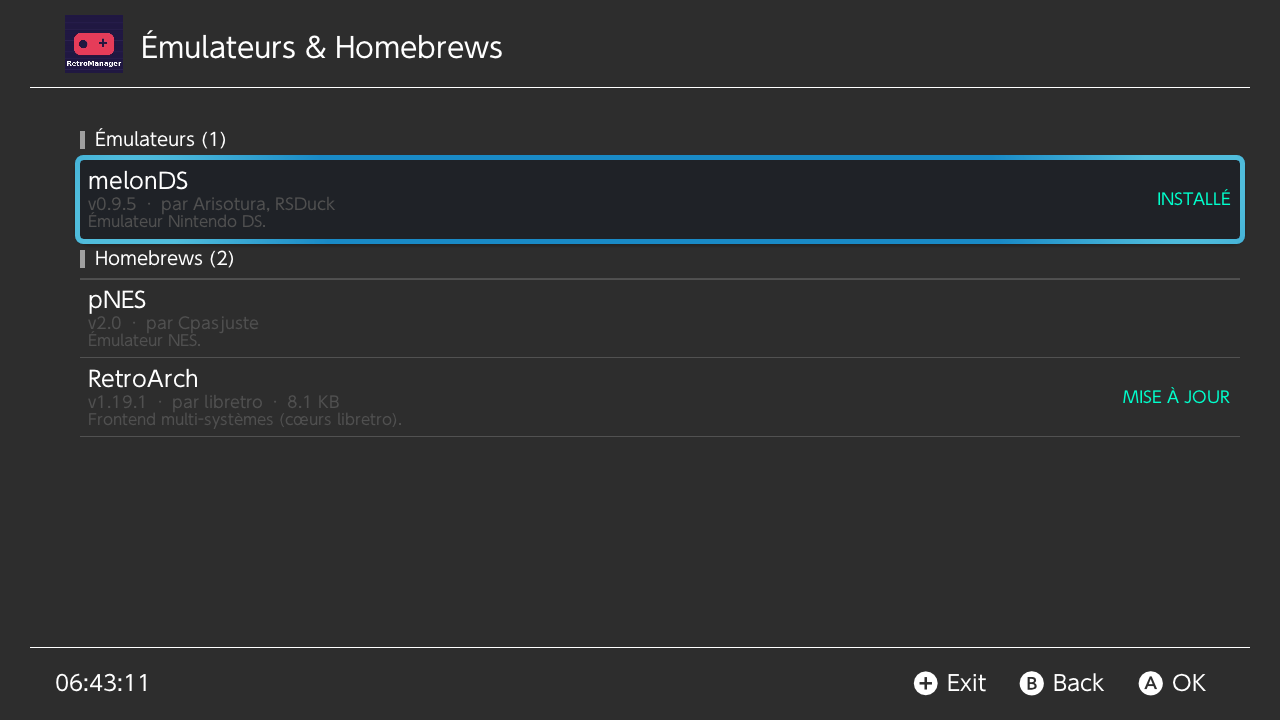
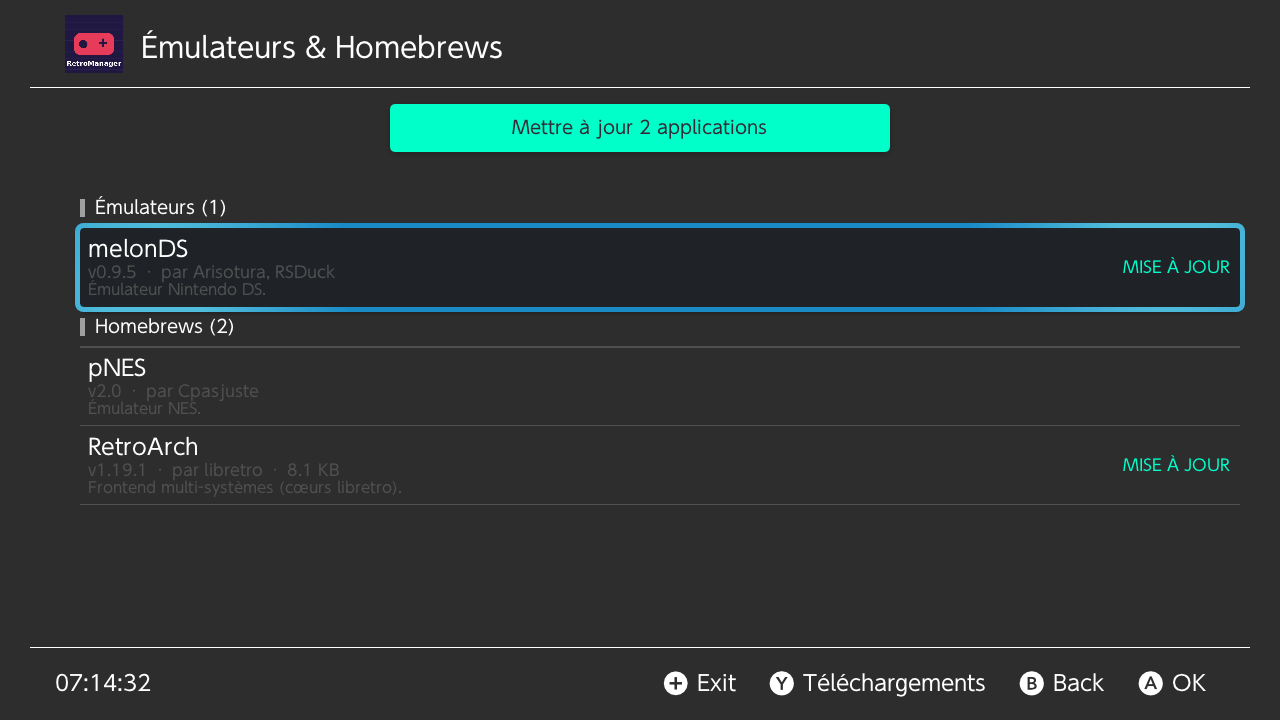
RetroManager docs: download queue, resume, Phase 8
Claude-Session: https://claude.ai/code/session_01QrhfqN1vSePJuW5szmThmT

diff --git a/retromanager/ARCHITECTURE.md b/retromanager/ARCHITECTURE.md
@@ -31,7 +31,7 @@ contredit, on modifie d'abord ce document.
 ```mermaid
 graph TD
     UI["ui/ : Activities & vues Borealis"]
-    SVC["services/ : ShopService ✅, DownloadService ✅, ConfigManager ✅, EmulatorConfigurator ✅, CheatManager ✅, EmulatorConfigurator, CheatManager, CloudSync, ForwarderBuilder, Scraper"]
+    SVC["services/ : ShopService ✅, DownloadQueueManager ✅, ConfigManager ✅, EmulatorConfigurator ✅, CheatManager ✅, EmulatorConfigurator, CheatManager, CloudSync, ForwarderBuilder, Scraper"]
     PARSE["parsers/ : RepoIndexParser ✅, ConfigParser ✅, CfgDocument ✅, IniParser, ChtParser"]
     FS["fs/ : FileInstall ✅, RomStore ✅"]
     NET["network/ : IRemoteSource ✅, MockRemoteSource ✅, FtpClient ✅, SourceFactory ✅, SmbClient, HttpClient"]
@@ -108,8 +108,11 @@ liront les vrais chemins dans `retroarch.cfg`.
   fichier de transit caché, `/roms/nds/.Jeu.nds.tmp` (masqué dans les
   listings), renommé sur la cible seulement au `close()`. Détruire le flux
   sans `close()` supprime le `.tmp`. Un crash, une annulation ou une coupure
-  réseau ne laisse jamais de ROM tronquée ni de save corrompue ; un `.tmp`
-  resté après une coupure de courant est écrasé à la tentative suivante.
+  réseau ne laisse jamais de ROM tronquée ni de save corrompue.
+- **Écritures reprenables** (Phase 8) : `suspend()` ferme le flux en gardant
+  le `.tmp` (toujours caché, jamais publié) ; `openWrite(path, {resume})`
+  le rouvre en ajout et `resumedFrom()` donne sa taille. Un `openWrite`
+  normal repart de zéro. Couvert par la suite de contrat (mémoire et disque).
 - `availableSpace(path)` : espace libre du volume (`Unsupported` si la
   plateforme ne sait pas le dire ; l'appelant continue alors sans contrôle).
 - Codes d'erreur normalisés (`NotFound`, `NotADirectory`, `IsADirectory`,
@@ -185,9 +188,9 @@ Format de l'index : [docs/INDEX_FORMAT.md](docs/INDEX_FORMAT.md).
 
 ```mermaid
 sequenceDiagram
-    participant UI as DownloadActivity (ui)
+    participant UI as DownloadsActivity (ui)
     participant B as EventBus (core)
-    participant D as DownloadService (services, WorkerThread)
+    participant D as DownloadQueueManager (services, WorkerThread)
     participant F as RomStore → IFileSystem (fs/platform)
     participant R as IRemoteSource (network)
     UI->>B: subscribe(Started / Progressed / Finished)
@@ -215,14 +218,14 @@ sur Switch, rien sur desktop). Il est relâché sur tous les chemins de sortie
 (succès, erreur, annulation, refus faute d'espace).
 
 **Étapes post-installation** (`services/PostInstallStep.hpp`) :
-`DownloadService` exécute, dans l'ordre, les `IPostInstallStep` enregistrés
+`DownloadQueueManager` exécute, dans l'ordre, les `IPostInstallStep` enregistrés
 dans `main.cpp`, une fois la ROM validée sur la carte. Une étape en échec ne
 défait jamais l'installation : son erreur est rapportée à côté.
 
 | Étape | Effet |
 |---|---|
 | `EmulatorConfigurator` | `rgui_browser_directory` de `retroarch.cfg` pointe sur le dossier de la ROM (`/roms/nds/`). Édition via `CfgDocument` : seule la valeur change, tout le reste du fichier est conservé octet pour octet. Copie `retroarch.cfg.rmbak` avant la première modification ; fichier créé s'il n'existe pas ; rien si RetroArch n'est pas installé. |
-| `PlaylistManager` | Ajoute le jeu à `<playlist_directory>/<système libretro>.lpl` (JSON RetroArch ; l'ancien format à 6 lignes est lu puis converti) : chemin, libellé = nom de la ROM sans extension, cœur `DETECT`, CRC-32 **mesuré pendant le téléchargement** (`DownloadService` le transmet aux étapes). `PlaylistDocument` conserve tout ce que RetroArch a écrit (champs inconnus, ordre des clés, autres entrées) ; une entrée existante pour le même fichier est mise à jour, jamais dupliquée ; copie `.lpl.rmbak` ; playlist illisible = laissée intacte (`ParseError`). |
+| `PlaylistManager` | Ajoute le jeu à `<playlist_directory>/<système libretro>.lpl` (JSON RetroArch ; l'ancien format à 6 lignes est lu puis converti) : chemin, libellé = nom de la ROM sans extension, cœur `DETECT`, CRC-32 **mesuré pendant le téléchargement** (`DownloadQueueManager` le transmet aux étapes). `PlaylistDocument` conserve tout ce que RetroArch a écrit (champs inconnus, ordre des clés, autres entrées) ; une entrée existante pour le même fichier est mise à jour, jamais dupliquée ; copie `.lpl.rmbak` ; playlist illisible = laissée intacte (`ParseError`). |
 | `ThumbnailManager` | Si l'entrée a une jaquette (`boxart` / `url_boxart`) : PNG vérifié (signature), 8 Mio max, écrit dans `<thumbnails_directory>/<système libretro>/Named_Boxarts/<libellé>.png` avec la règle de nommage de RetroArch (`&` `*` `/` `:` `<` `>` `?` `\` `\|` et l'accent grave deviennent `_`). |
 | `CheatManager` | Si l'entrée a un `cheat_url` : télécharge le `.cht` (1 Mio max, validé comme fichier de triche RetroArch) dans `<cheat_database_path>/<système libretro>/<nom de la ROM>.cht`. |
 | `SysClkConfigurator` | Pour un jeu N64 ou PlayStation (pas la 3DS, qui tourne dans Citra autonome) : section `[<title id>]` de `/config/sys-clk/config.ini` avec `handheld_cpu=1785` et `docked_cpu=1785`. Édition via `IniDocument` (sections, commentaires `;`/`#`, sans perte), copie `config.ini.rmbak`, idempotent ; `NotFound` si sys-clk n'est pas installé (`/config/sys-clk` absent). Title id configurable (`sysclk.title_id`, défaut `010000000000100D`, l'applet Album dans lequel tourne un `.nro` lancé depuis hbmenu), étape désactivable (`sysclk.enabled`). |
@@ -232,7 +235,7 @@ d'écriture de 1 Mio + tampon de réception curl de 256 Kio. Le test
 d'intégration mesure la mémoire résidente pendant un téléchargement de
 64 Mio : environ +1,2 Mio (échec au-delà de 16 Mio).
 
-**Téléchargements génériques** (Phase 7) : `DownloadService` exécute des
+**Téléchargements génériques** (Phase 7) : `DownloadQueueManager` exécute des
 `DownloadJob` (titre, URL, destination, et trois fonctions : `begin` crée le
 `FileInstall`, `afterInstall` fait le travail qui suit avec le CRC mesuré,
 `onFailed` range ce que le job a créé). `start(GameEntry)` construit le job
@@ -338,8 +341,9 @@ version, description, `url_nro`, `url_icon`, dossier). `AppManager` :
   absente de l'index : demandée au serveur (listing) pour que le contrôle
   d'espace ait lieu. Échec d'une première installation : le dossier vide
   est supprimé (pas de dossier fantôme dans hbmenu).
-- **Après** : l'icône (`/switch/<dossier>/icon.jpg`, JPEG vérifié, 2 Mio
-  max ; un échec n'annule pas l'installation), puis la version installée est
+- **Après** : l'icône (`/switch/<dossier>/<dossier>.jpg`, le nom que hbmenu
+  cherche pour un `.nro` sans icône intégrée, et une copie `icon.jpg` ; JPEG
+  vérifié, 2 Mio max ; un échec n'annule pas l'installation), puis la version installée est
   notée dans `/switch/RetroManager/apps.json`.
 - **État** : non installé, installé (`.nro` présent ; version inconnue si
   installé à la main), mise à jour disponible (version notée ≠ version de
@@ -347,15 +351,68 @@ version, description, `url_nro`, `url_icon`, dossier). `AppManager` :
 
 `AppsListActivity` : deux sections (Émulateurs, Homebrews), version et
 auteur sous le titre, tag « INSTALLÉ » / « MISE À JOUR » rafraîchi après
-chaque téléchargement ; `DownloadActivity` (générique) affiche « Application
-installée dans /switch/... ».
+chaque téléchargement ; le bilan affiche « Application installée dans
+/switch/... ».
 
-### 4.7 Asynchronisme
+### 4.7 Flux implémenté (Phase 8) : file d'attente et reprise
+
+`DownloadQueueManager` (ex-`DownloadService`) est la file unique de l'app :
+un clic sur un jeu ou une application **ajoute** un `DownloadJob` et rend la
+main immédiatement ; l'UI n'attend jamais.
+
+```mermaid
+sequenceDiagram
+    participant UI as Listes / DownloadsActivity (thread UI)
+    participant Q as DownloadQueueManager
+    participant W as WorkerThread (drain)
+    UI->>Q: start(job) : ajouté en fin de file (doublon ignoré)
+    Q-->>UI: DownloadQueueChanged{snapshot}
+    Q->>W: drain() posté si aucun n'est en cours
+    loop tant que la file n'est pas vide (anti-veille tenu tout du long)
+        W->>W: dépile, état Running, DownloadQueueChanged
+        W->>W: run(job) : Started, Progressed (10/s), Configuring, Finished
+    end
+    UI->>Q: cancel(id) : en attente = retiré ; en cours = token annulé
+```
+
+- **Un seul transfert à la fois**, dans l'ordre d'ajout. Un élément ajouté
+  pendant qu'un autre tourne (même depuis un handler d'événement) rejoint
+  la même boucle.
+- **Anti-veille** : pris au premier élément, rendu quand la file est vide
+  (pas de fenêtre de mise en veille entre deux éléments).
+- **État lisible de partout** : `snapshot()` (en cours puis en attente, avec
+  progression), `history()` (30 derniers résultats, avec les étapes),
+  `isQueued(itemId)` pour les tags « EN FILE ». Tout est protégé par un
+  mutex ; les événements sont livrés sur le thread principal par l'EventBus.
+- **Reprise** : `begin()` rouvre le `.tmp` d'une tentative interrompue ;
+  `FileInstall` relit une fois ses octets pour que le CRC-32 porte sur le
+  fichier entier (et revérifie l'en-tête NRO) ; puis
+  `IRemoteSource::downloadFileFrom(offset)` : `REST <offset>` avant `RETR`
+  côté FTP (`CURLOPT_RESUME_FROM_LARGE`). Serveur qui refuse (ou offset
+  au-delà de la fin) : `Unsupported`, le `.tmp` est vidé et le fichier
+  retéléchargé depuis le début. Un `.tmp` déjà complet est simplement
+  vérifié.
+- **Que garde-t-on ?** Coupure réseau ou fermeture de l'app : le `.tmp` est
+  gardé (`suspend()`) pour la reprise. Annulation par l'utilisateur, CRC ou
+  en-tête faux, carte pleine : il est supprimé. Si le fichier du NAS a
+  changé entre-temps, le CRC (quand l'index le donne) détecte le mélange et
+  le fichier est retéléchargé proprement à la tentative suivante.
+
+UI : `DownloadsActivity` (en cours avec barre, pourcentage, débit et
+« reprise à … » ; en attente, A retire ; terminés, A affiche le bilan ;
+X annule l'élément en cours). Les listes ne sont reconstruites que quand
+leur contenu change, avec le focus replacé sur la même ligne ; la
+progression ne met à jour que des libellés. `DownloadNotifier` affiche
+« Installé : … » / « Échec : … » quel que soit l'écran. Accueil : bouton
+« Téléchargements (N) » ; boutique et App Store : Y ; App Store : bouton
+« Mettre à jour N applications ».
+
+### 4.8 Asynchronisme
 
 - Les opérations longues passent par `ITaskRunner` (`core/ITaskRunner.hpp`) :
   - `ui::BorealisTaskRunner` (`brls::async` / `brls::sync`) pour les tâches
     courtes (chargement de l'index) ;
-  - `WorkerThread`, un thread dédié possédé par `DownloadService` (et un
+  - `WorkerThread`, un thread dédié possédé par `DownloadQueueManager` (et un
     autre par `CloudSyncService` et par `BiosManager`), pour les
     téléchargements et la synchro :
     ils durent des minutes et ne doivent pas bloquer la
@@ -375,11 +432,11 @@ installée dans /switch/... ».
   cloud). `publish()` depuis n'importe quel thread ; les handlers tournent
   toujours sur le thread principal ; une `Subscription` détruite n'est plus
   jamais appelée, même pour un événement déjà en file.
-- `DownloadService`, `CloudSyncService` et `BiosManager` possèdent leur `WorkerThread` :
+- `DownloadQueueManager`, `CloudSyncService` et `BiosManager` possèdent leur `WorkerThread` :
   leur destructeur annule tout et attend la fin du transfert en cours. Dans
   `main()`, ils sont déclarés en dernier pour être détruits en premier.
 
-### 4.8 Gestion des erreurs
+### 4.9 Gestion des erreurs
 
 `Result<T>` / `Status` à chaque frontière. Les services ajoutent du contexte au
 message ; l'UI traduit `ErrorCode` en message localisé (i18n : réseau,
@@ -395,7 +452,7 @@ traverse une frontière de couche (le parser attrape celles de nlohmann/json).
    `.cfg`, synchronisation, parsing des listings FTP).
 2. **Unitaires** (`tests/unit`) : `MemoryFileSystem` et fakes, rapides.
 3. **Contrat** : une suite par interface, exécutée sur chaque implémentation.
-4. **Intégration** (`tests/integration`) : `FtpClient` → `DownloadService` →
+4. **Intégration** (`tests/integration`) : `FtpClient` → `DownloadQueueManager` →
    `RomStore` → disque, contre un vrai serveur local
    (`tools/test_ftp_server.py`, pyftpdlib) servant `tests/fixtures/ftp_root`
    plus une ROM générée de 64 Mio avec son CRC, et un second serveur **FTPS**
@@ -440,4 +497,5 @@ Nommage : `IXxx` pour une interface, un fichier par classe, espace de noms
 | 5 | Envoi FTP en flux + listing (MLSD / NLST), `CloudSyncService` (manifeste, conflits sans perte), `IniDocument`, `SysClkConfigurator`, écran « Synchroniser les sauvegardes » | ✅ |
 | 6 | Playlists RetroArch (`PlaylistDocument`, `PlaylistManager`), jaquettes (`ThumbnailManager`), BIOS (catalogue, MD5, section `bios` de l'index, `BiosManager`, écran « Vérification des BIOS »), sys-clk sur l'applet Album | ✅ |
 | 7 | App Store personnel : sections `apps` / `emulators`, `AppManager` (`/switch/<nom>/<nom>.nro`, en-tête NRO, `icon.jpg`, versions installées), pipeline de téléchargement générique (`FileInstall`, `DownloadJob`), écran « Émulateurs & Homebrews » | ✅ |
-| 8+ | File de téléchargements, sources HTTP/SMB, scraping automatique (bases libretro), forwarders | — |
+| 8 | File de téléchargements (`DownloadQueueManager`, écran « Téléchargements »), reprise FTP `REST` (écritures reprenables dans `IFileSystem`), « Mettre à jour N applications », icône `<nom>.jpg` | ✅ |
+| 9+ | Sources HTTP/SMB, scraping automatique (bases libretro), forwarders, file persistante entre deux lancements | — |

diff --git a/retromanager/README.md b/retromanager/README.md
@@ -8,6 +8,7 @@ rétro ». C++17, libnx, [Borealis](https://github.com/xfangfang/borealis).
 ![Synchronisation des sauvegardes (build desktop)](docs/sync-desktop.png)
 ![Vérification des BIOS (build desktop)](docs/bios-desktop.png)
 ![Émulateurs & Homebrews (build desktop)](docs/apps-desktop.png)
+![File de téléchargements (build desktop)](docs/downloads-desktop.png)
 
 Après chaque téléchargement, RetroManager intègre le jeu à RetroArch : il
 l'ajoute à la playlist de son système (il apparaît directement dans le menu
@@ -19,6 +20,11 @@ aussi sys-clk (CPU à 1785 MHz pour RetroArch).
 L'écran « Émulateurs & Homebrews » est un App Store personnel : il installe
 les `.nro` de votre NAS (RetroArch, melonDS, pNES…) dans
 `/switch/<nom>/<nom>.nro`, avec leur icône, et signale les mises à jour.
+
+Tous les téléchargements passent par une file : un clic ajoute le jeu ou
+l'application, la file les traite un par un en arrière-plan (écran
+« Téléchargements » : progression, retrait, annulation), et un
+téléchargement coupé reprend là où il s'était arrêté (FTP `REST`).
 
 L'écran « Vérification des BIOS » liste les BIOS attendus par les cœurs
 (GBA, PlayStation, DS…), vérifie leur MD5 et télécharge ceux qui manquent
@@ -61,7 +67,7 @@ python3 tools/test_ftp_server.py --port 2121 --throttle-kbps 8192 &
 cmake --preset desktop && cmake --build --preset desktop
 ./build/desktop/RetroManager           # -d : logs debug, -v : vue de debug
 
-# Sur desktop : Entrée = A, Échap = B, clic milieu = X
+# Sur desktop : Entrée = A, Échap = B, clic milieu = X (pas de Y au clavier : passez par l'accueil)
 # Interface en français (sur Switch : langue de la console)
 RETROMANAGER_LANG=fr ./build/desktop/RetroManager
 

diff --git a/retromanager/docs/INDEX_FORMAT.md b/retromanager/docs/INDEX_FORMAT.md
@@ -139,7 +139,7 @@ renseignez `system`. Liste de référence : `src/models/Systems.cpp`.
 | `author` | chaîne | vide |
 | `version` | chaîne libre (`1.19.1`, `v2.0-beta`) : comparée à la version installée pour afficher « MISE À JOUR » | vide (pas de détection) |
 | `description` | chaîne | vide |
-| `url_icon` | chaîne (URL) d'une icône **JPEG** (256×256 conseillé), installée en `/switch/<dossier>/icon.jpg` | vide |
+| `url_icon` | chaîne (URL) d'une icône **JPEG** (256×256 conseillé), installée en `/switch/<dossier>/<dossier>.jpg` (le nom que hbmenu cherche) et en `icon.jpg` | vide |
 | `folder` | nom du dossier et du `.nro` | le titre, rendu sûr pour FAT |
 | `size` | entier ≥ 0, en octets | demandée au serveur au moment du téléchargement |
 | `crc32` | 8 chiffres hexadécimaux, vérifié | vide |
